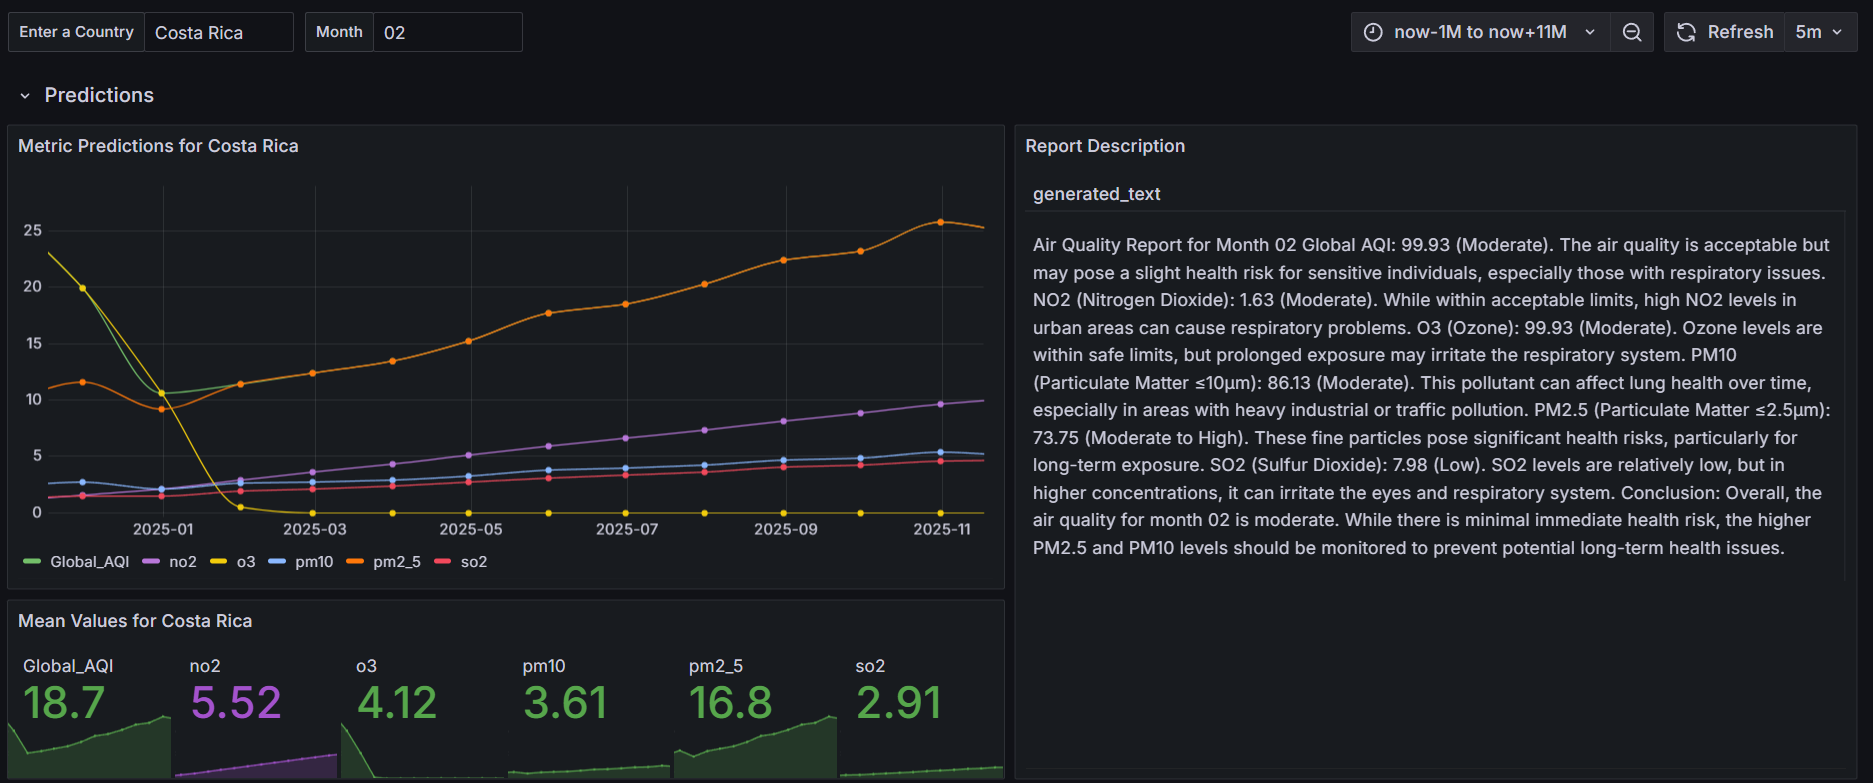
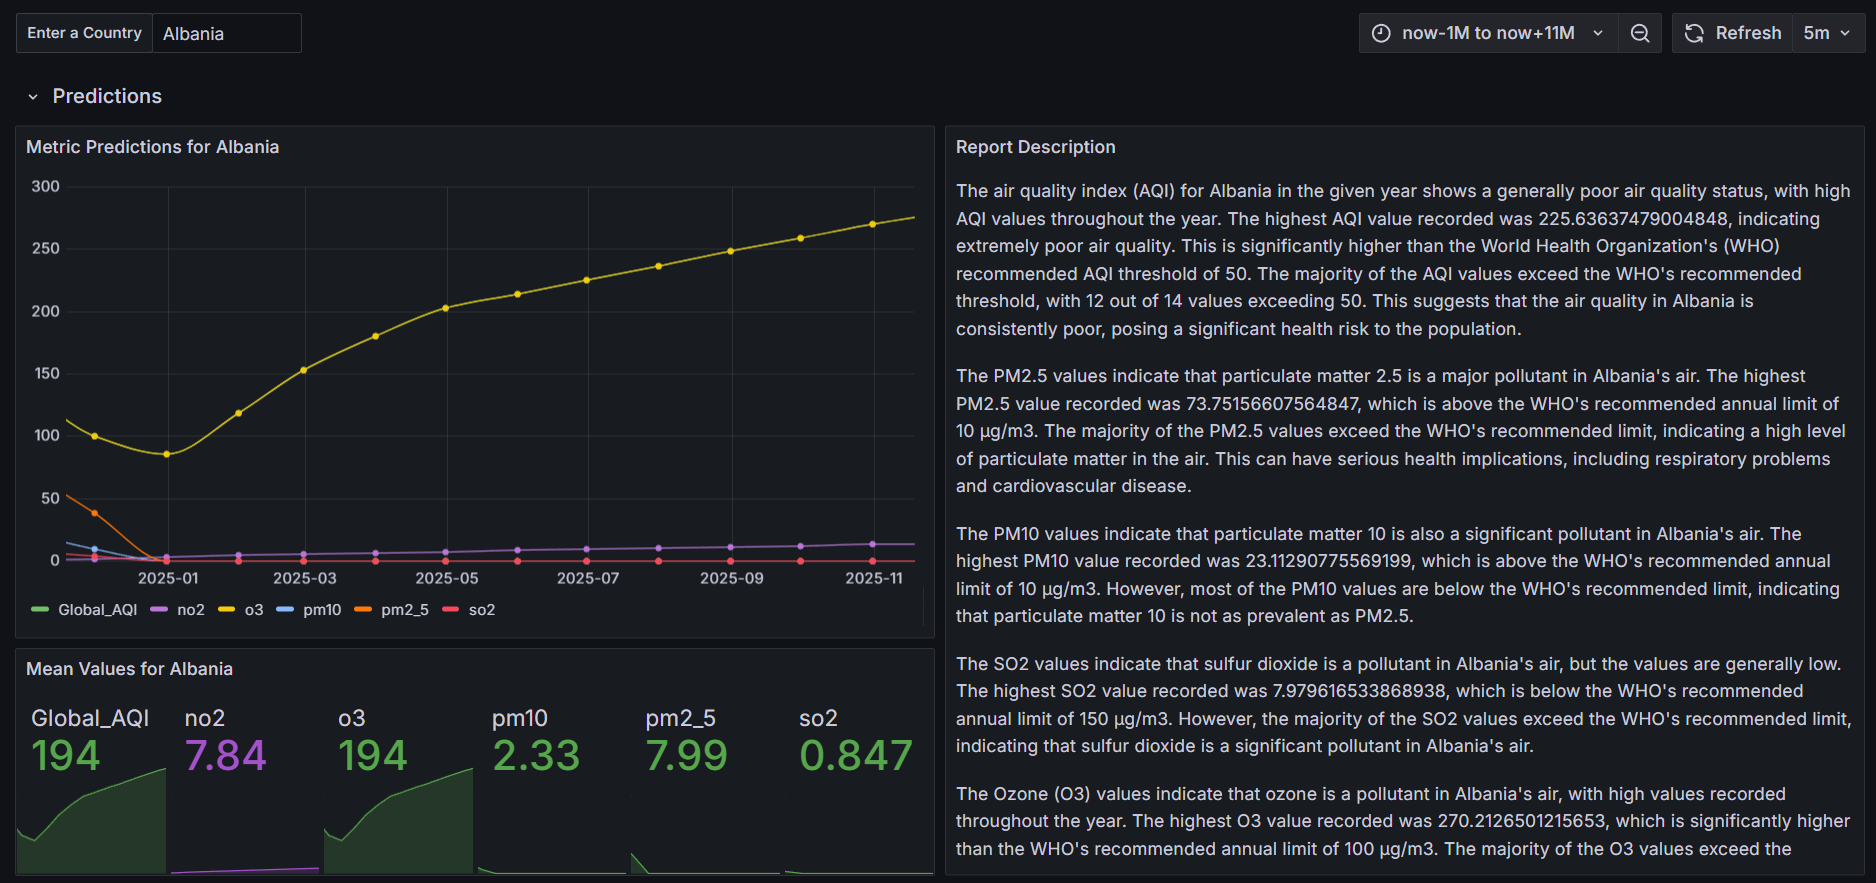
updated LLM script

diff --git a/Report-Generation/llm.py b/Report-Generation/llm.py
@@ -1,88 +1,108 @@
-import logging
 from flask import Flask, request, jsonify
 from transformers import AutoModelForCausalLM, AutoTokenizer
+import torch, logging
+import tensorflow as tf
 
-
+# Flask app initialization
 app = Flask(__name__)
 
-logging.basicConfig(level=logging.INFO)
+# ------------------ GPU Configurations ------------------
 
-# Load model and tokenizer
-MODEL_NAME = "meta-llama/Llama-3.2-3B-Instruct"
-tokenizer = AutoTokenizer.from_pretrained(MODEL_NAME)
-model = AutoModelForCausalLM.from_pretrained(MODEL_NAME)
-
-def parse_metric(metric):
-    if metric:
-        try:
-            return [float(x.strip()) for x in metric.strip('{}').split(',')]
-        except ValueError as e:
-            logging.error(f"Error parsing metric {metric}: {e}")
-            return []
-    return []
-
-@app.route('/generate', methods=['POST'])
-def generate_text():
-    # Retrieve query parameters
-    country = request.args.get('country')
-    month = request.args.get('month')
-    aqi = request.args.get('aqi')
-    pm25 = request.args.get('pm25')
-    pm10 = request.args.get('pm10')
-    no2 = request.args.get('no2')
-    so2 = request.args.get('so2')
-    o3 = request.args.get('o3')
-
+# Enable TensorFlow GPU memory growth (prevents full allocation at startup)
+gpus = tf.config.experimental.list_physical_devices('GPU')
+if gpus:
     try:
-        month = int(month)
-        if month < 1 or month > 12:
-            raise ValueError("Month must be between 1 and 12")
-    except ValueError as e:
-        return jsonify({"error": str(e)}), 400
+        for gpu in gpus:
+            tf.config.experimental.set_memory_growth(gpu, True)
+        print("TensorFlow memory growth enabled.")
+    except RuntimeError as e:
+        print(f"Error enabling memory growth: {e}")
 
-    # Parse metrics
+# ------------------ Model Loading ------------------
+
+# Choose the model
+MODEL_NAME = "meta-llama/Llama-3.2-3B-Instruct"
+
+# Load tokenizer and model with optimizations
+print("Loading model...")
+try:
+    tokenizer = AutoTokenizer.from_pretrained(MODEL_NAME)
+    model = AutoModelForCausalLM.from_pretrained(
+        MODEL_NAME,
+        device_map="auto",  # Automatically use available GPU
+        torch_dtype=torch.float16 if torch.cuda.is_available() else torch.float32,  # Mixed precision
+    )
+    print("Model loaded successfully.")
+except Exception as e:
+    print(f"Error loading model: {e}")
+    exit(1)
+
+# ------------------ Routes ------------------
+
+# Function to parse metrics from input strings
+def parse_metric(metric):
+    try:
+        # Strip curly braces and split by commas to parse values
+        return [float(x.strip()) for x in metric.strip('{}').split(',')]
+    except ValueError as e:
+        logging.error(f"Error parsing metric {metric}: {e}")
+        return []
+
+@app.route("/generate", methods=["POST"])
+def generate_text():
+    """
+    Generate a detailed environmental report based on query parameters and metrics.
+    """
+    # Retrieve query parameters
+    country = request.args.get("country")
+    aqi = request.args.get("aqi")
+    pm25 = request.args.get("pm25")
+    pm10 = request.args.get("pm10")
+    so2 = request.args.get("so2")
+    o3 = request.args.get("o3")
+
+    #Parse metrics
     aqi = parse_metric(aqi)
     pm25 = parse_metric(pm25)
     pm10 = parse_metric(pm10)
-    no2 = parse_metric(no2)
     so2 = parse_metric(so2)
     o3 = parse_metric(o3)
 
-    # Prepare data for the specified month
-    data_for_month = {
-        "aqi": aqi[month - 1],
-        "pm25": pm25[month - 1],
-        "pm10": pm10[month - 1],
-        "no2": no2[month - 1],
-        "so2": so2[month - 1],
-        "o3": o3[month - 1]
-    }
-
     # Construct the prompt for the model
     prompt = f"""
-    You are an environmental data analyst. Based on the following data for {country} in month {month}, generate a detailed report:
+    You are an environmental data analyst. Based on the following data for {country} and the list of predictions for the following year, generate a detailed report in a paragraph form:
 
-    - Air Quality Index (AQI): {data_for_month["aqi"]}
-    - PM2.5 (Particulate Matter 2.5): {data_for_month["pm25"]}
-    - PM10 (Particulate Matter 10): {data_for_month["pm10"]}
-    - Nitrogen Dioxide (NO2): {data_for_month["no2"]}
-    - Sulfur Dioxide (SO2): {data_for_month["so2"]}
-    - Ozone (O3): {data_for_month["o3"]}
+    - Air Quality Index (AQI): {aqi}
+    - PM2.5 (Particulate Matter 2.5): {pm25}
+    - PM10 (Particulate Matter 10): {pm10}
+    - Sulfur Dioxide (SO2): {so2}
+    - Ozone (O3): {o3}
 
-    Provide an interpretation of these metrics, explain the air quality status for the month, and offer recommendations or insights based on the given values. Include a summary of the potential environmental impact on health for that month and any relevant context based on typical levels for each pollutant.
+    Provide an interpretation of these metrics, explain the air quality status for the next year, and offer recommendations or insights based on the given values. Include a summary of the potential environmental impact on health for that month and any relevant context based on typical levels for each pollutant.
     """
 
-    # Generate Report
     try:
-        inputs = tokenizer(prompt, return_tensors="pt")
-        outputs = model.generate(inputs["input_ids"], max_length=3000)
-        result = tokenizer.decode(outputs[0], skip_special_tokens=True)
-    except Exception as e:
-        logging.error(f"Error during text generation: {e}")
-        return jsonify({"error": "Failed to generate text"}), 500
+        # Generate the report using the model
+        input_ids = tokenizer(prompt, return_tensors="pt").input_ids.to(model.device)
+        output = model.generate(
+            input_ids, 
+            max_length=1500, 
+            temperature=0.7, 
+            num_return_sequences=1
+        )
 
-    return jsonify({"generated_text": result})
+        # Decode and return the generated text
+        generated_text = tokenizer.decode(output[0], skip_special_tokens=True)
+        generated_text=generated_text[len(prompt):]
+        return jsonify({
+            "Report": generated_text
+        })
+
+    except Exception as e:
+        logging.error(f"Error generating report: {e}")
+        return jsonify({"error": str(e)}), 500
+
+# ------------------ Main ------------------
 
 if __name__ == "__main__":
-    # Run the Flask app
-    app.run(host="0.0.0.0", port=5000)
+    app.run(host="0.0.0.0", port=5000, debug=True)

diff --git a/README.md b/README.md
@@ -7,7 +7,7 @@ This cloud-based solution monitors, analyzes, forecasts air quality and generate
 - [Overview](#overview)
 - [Repository Structure](#repository-structure)
 - [Architecture](#architecture)
-<!-- - [Prerequisites](#prerequisites) -->
+- [Prerequisites](#prerequisites)
 - [Deployment Steps](#deployment-steps)  
    1. [Data Pipeline Setup](#data-pipeline-setup)  
         - [Step 1: Set up EC2 Instance with cloud9 environment](#step-1-set-up-ec2-instance)  
@@ -55,22 +55,12 @@ The entire pipeline is automated, allowing for continuous updates, error handlin
   ├── Data Fetch
   │   └── fetch_data.py
   ├── Images
-  │   ├── Architecture-dark.png
-  │   ├── Architecture-light.png
-  │   ├── llm-dark.png
-  │   ├── llm-light.png
-  │   ├── pred-dark.png
-  │   ├── pred-light.png
-  │   ├── vis1-dark.png
-  │   ├── vis1-light.png
-  │   ├── vis2-dark.png
-  │   └── vis2-light.png
-  ├── Lambda-function
+  ├── Lambda_function
   │   └── data_transformation.py
   ├── README.md
   ├── Report-Generation
   │   └── llm.py
-  └── useful
+  └── datasets
       ├── countries.csv
       └── data_schema.json
 ```
@@ -98,7 +88,54 @@ The following AWS services are used in the architecture:
   <img alt="Architecture Diagram" src="Images/Architecture-light.png">
 </picture>
 
-<!-- ## Prerequisites -->
+## Prerequisites
+
+To successfully set up and deploy this project, you will need the following:
+
+### 1. **AWS Account**
+   - An active AWS account with permissions to use services like EC2, S3, Lambda, Kinesis, Glue, Athena, SageMaker, and API Gateway.
+
+### 2. **OpenWeather API Key**
+   - Sign up at [OpenWeather](https://openweathermap.org/api) to get an API key for the Air Pollution API.
+
+### 3. **AWS IAM Roles and Policies**
+  - Create or configure IAM roles with permissions for the following services:
+  - Amazon EC2
+  - Amazon Kinesis
+  - Amazon S3
+  - AWS Lambda
+  - AWS Glue
+  - Amazon Athena
+  - Amazon SageMaker
+  - Attach policies like `AmazonS3FullAccess`, `AmazonKinesisFullAccess`, and `AWSLambdaBasicExecutionRole`.
+
+### 4. **Python Environment**
+   - Ensure Python 3.x is installed along with required libraries:
+     ```bash
+     pip install boto3 requests json time
+     ```
+
+### 6. **Grafana Setup**
+   - Download Grafana for your environment or plan to set it up on an EC2 instance.
+   - Guide: [Grafana Installation](https://grafana.com/docs/grafana/latest/setup-grafana/installation/).
+
+### 7. **ngrok**
+   - Install `ngrok` to expose local APIs for testing.
+   - Download: [ngrok](https://ngrok.com/download).
+
+### 8. **Access Credentials**
+   - AWS access key ID and secret access key for programmatic access.
+   - Ensure the credentials are stored securely using environment variables or AWS credentials files.
+
+### 9. **GPU Support**:  
+   Ensure that your system has GPU support for accelerated tasks. You can check if your system has a compatible GPU by running:
+   - **For NVIDIA GPUs**:  
+     `nvidia-smi` (This will display the GPU details if the NVIDIA drivers are correctly installed)
+   - **For AMD GPUs**:  
+     `lspci | grep VGA` (This will display the details of the GPU if it's detected)
+   
+   **Note**: You may need to install additional drivers or libraries like CUDA (for NVIDIA GPUs) or ROCm (for AMD GPUs).
+
 
 ## Deployment Steps
 ### Data Pipeline Setup
@@ -130,7 +167,6 @@ It is important to configure the Kinesis client before fetching the data and set
         aws_session_token=aws_session_token)
     ```
 ##### Note: 
-- This  data stream creation is detailed in the following step.
 - It is necessary to have an S3 bucket named `useful-data-bucket` that containes the csv file `countries.csv`.
 
 
@@ -180,13 +216,13 @@ To visualize the air pollution data, we installed Grafana on an `t2.medium` EC2 
 
 ##### Grafana Installation
 1. Download and run Grafana:
-  - Create an t2.medium EC2 Instance and update the inbound rules on port 3000
-  - Open the Instance terminal and install Grafana
-    ```bash
-    sudo yum update -y
-    sudo yum install grafana -y
-    sudo systemctl daemon-reload
-    ```
+    - Create an t2.medium EC2 Instance and update the inbound rules on port 3000
+    - Open the Instance terminal and install Grafana
+      ```bash
+      sudo yum update -y
+      sudo yum install grafana -y
+      sudo systemctl daemon-reload
+      ```
 2. Create the file `credentials`in the folder path `usr/share/grafana/.aws` and store your AWS credentials inside.
     - These tokens are available in your AWS console under:
 AWS Management Console → AWS Details section when you sign in to your AWS interface.
